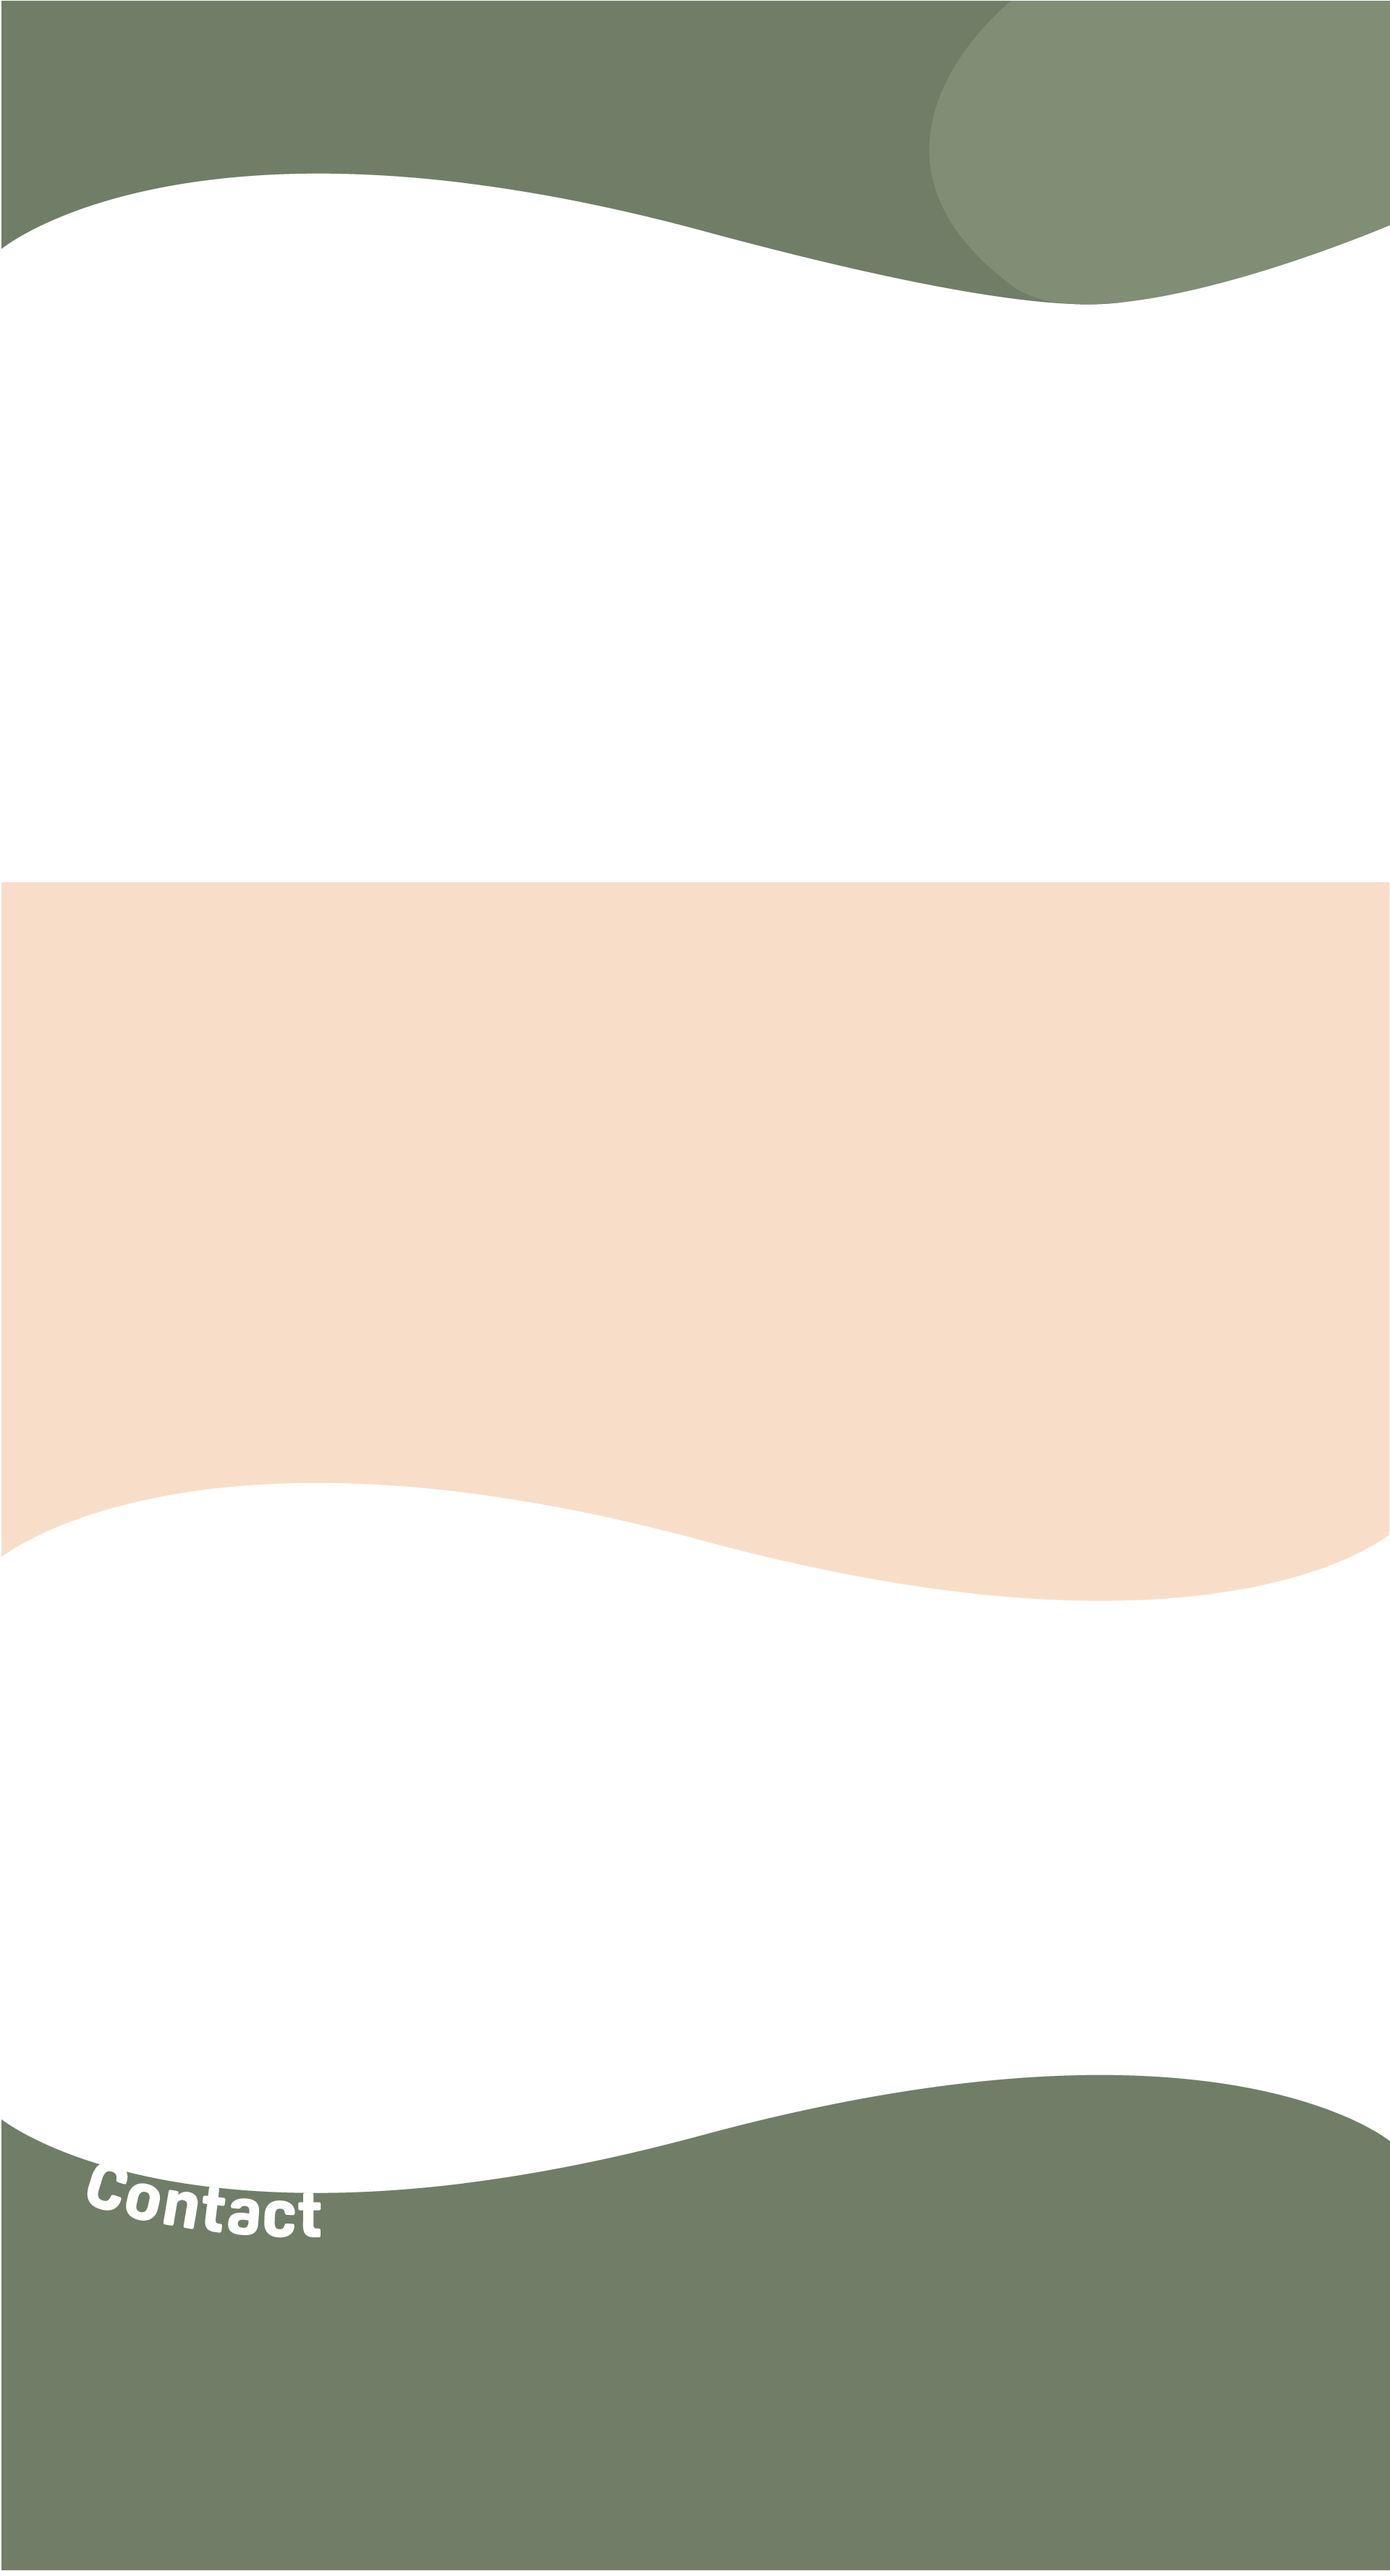
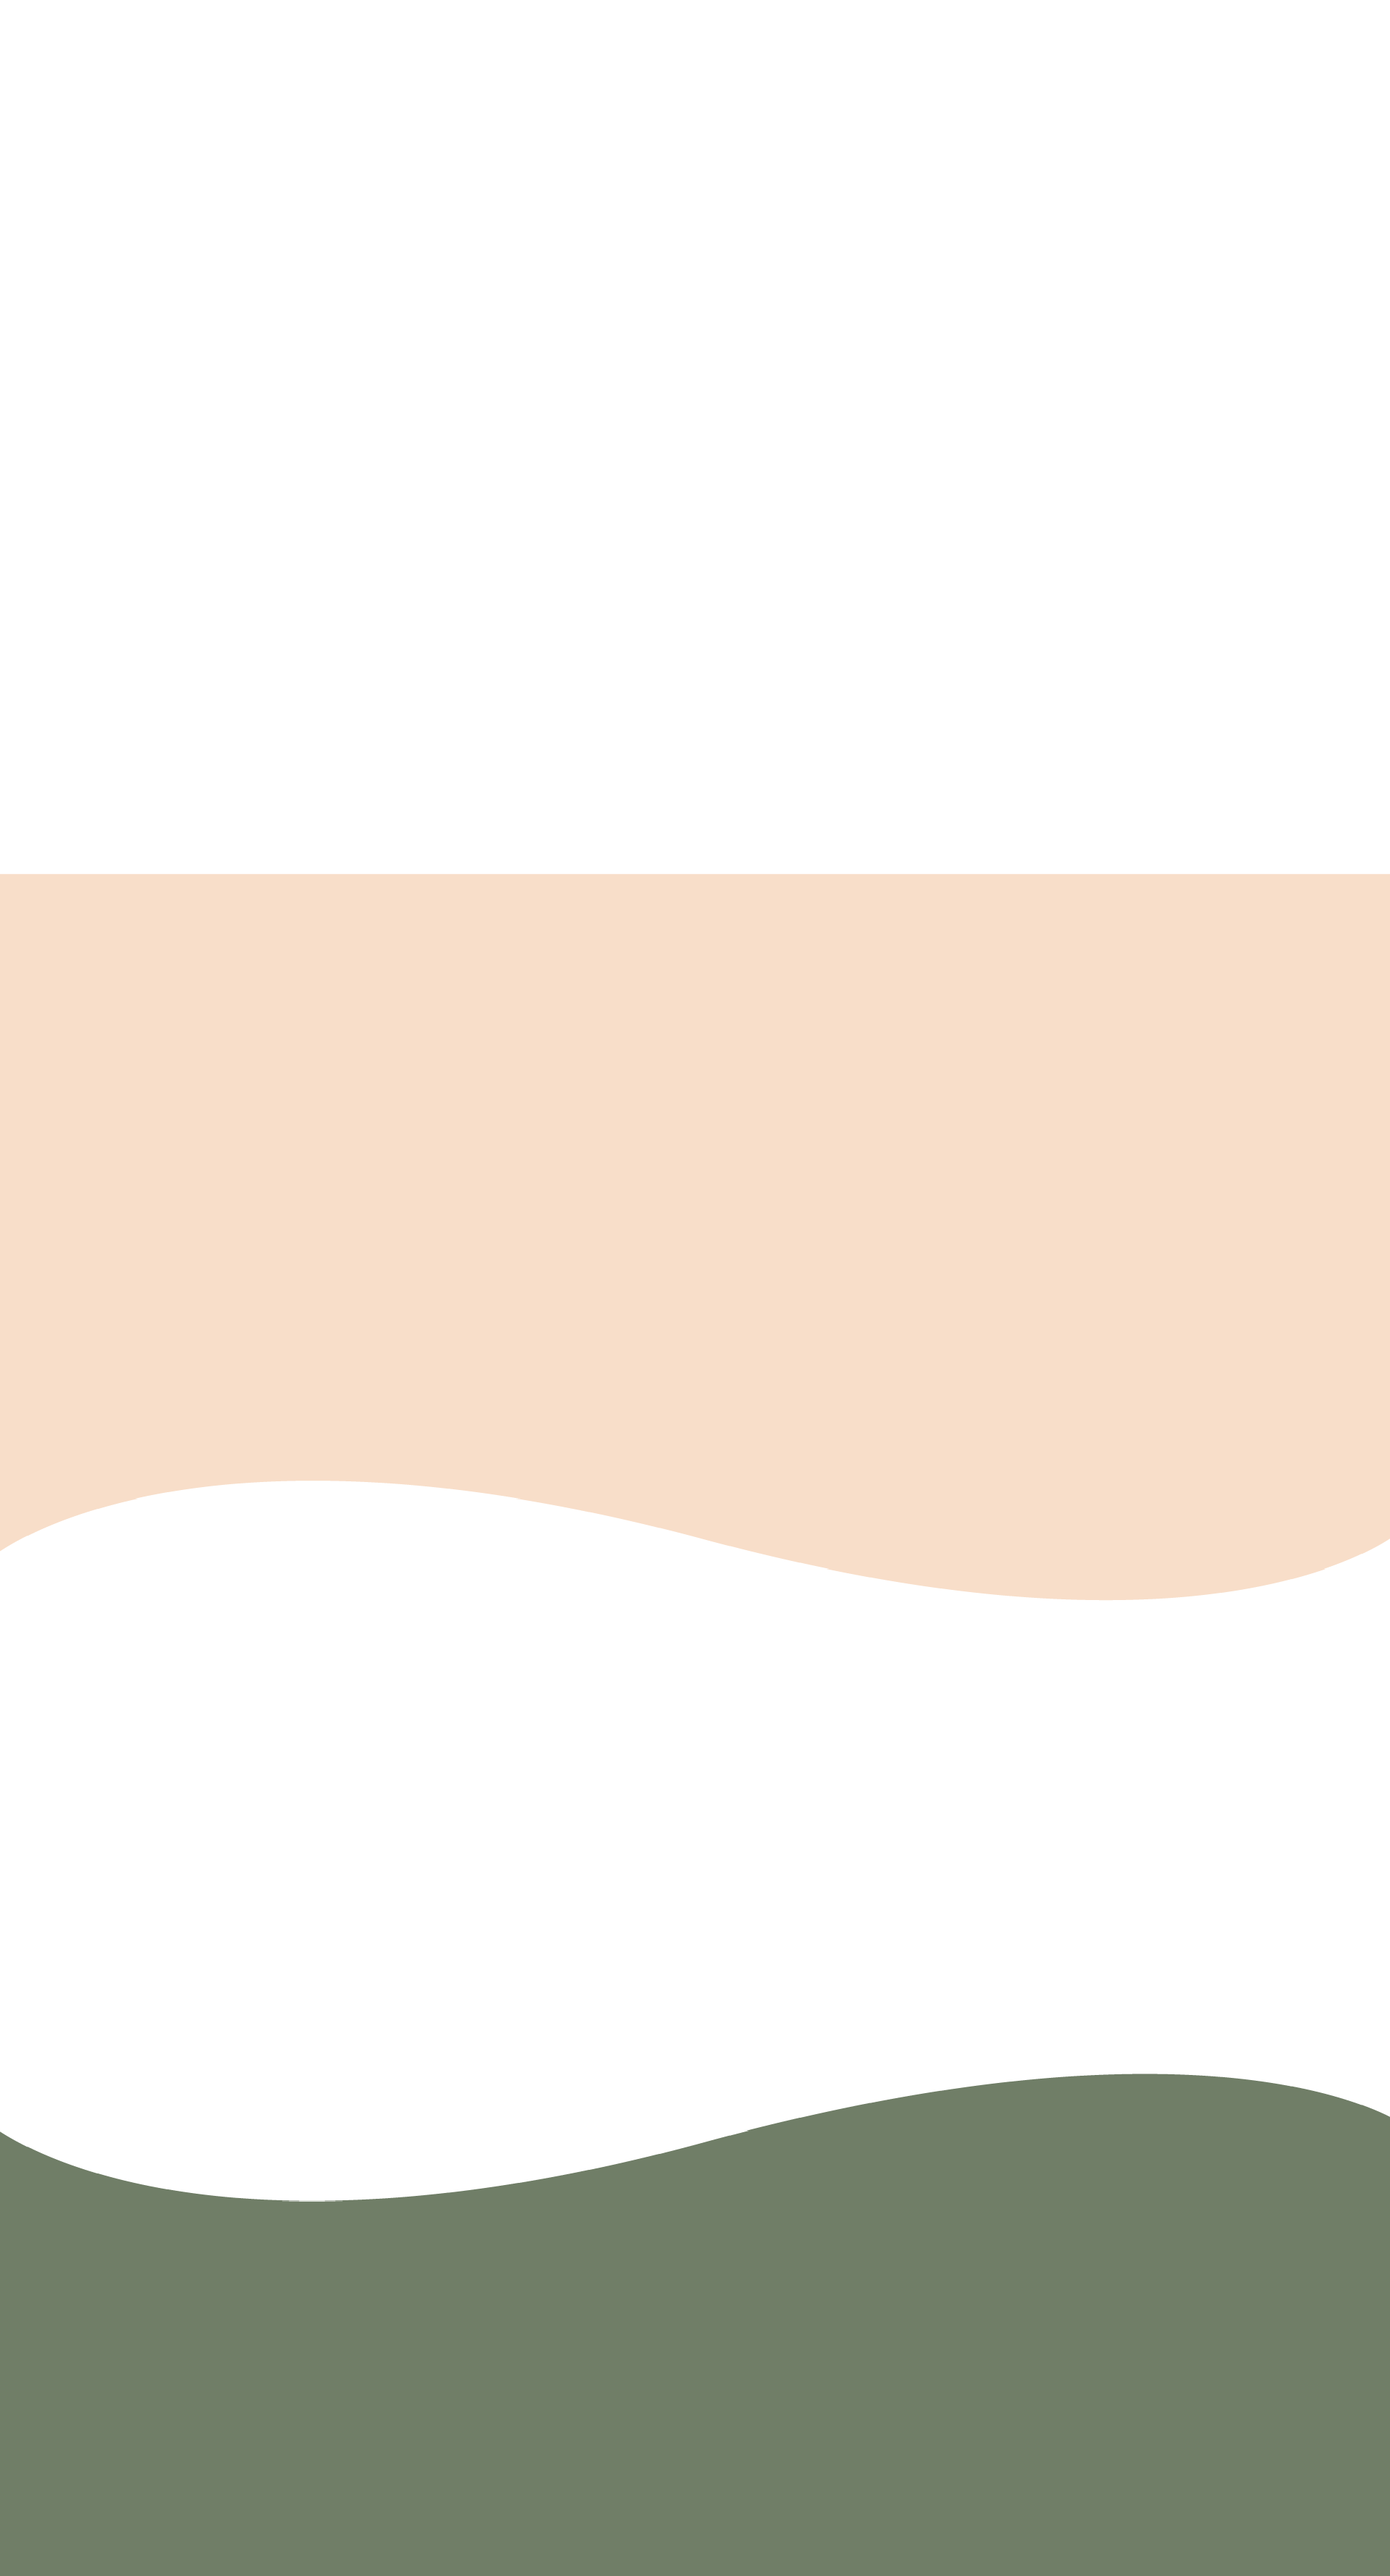
added background to home

diff --git a/Website/css/base-layout.css b/Website/css/base-layout.css
@@ -8,7 +8,7 @@ body {
 .header {
 	padding: 0px;
 	border-top-right-radius: 23px;
-	border-top-left-radius: 23px;
+	border-top-left-radius: 20px;
 	border-left: solid #3e2e14;
 	border-right: solid #3e2e14;
 	border-top: solid #3e2e14;
@@ -64,7 +64,7 @@ h1 {
 	width: 60%;
 }
 .home-div3 {
-	padding: 1% 45px 25px 13%;
+	padding: 1% 45px 15px 13%;
 	height: 20%;
 	display: flex;
 	justify-content: space-between;
@@ -99,8 +99,7 @@ h1 {
 }
 .background {
 	width: 97.75%;
-	border-top-right-radius: 22.5px;
-	border-top-left-radius: 10px;
+	border-radius: 22.5px;
 	padding-right: 0px;
 	z-index: -3;
 	position: absolute;

diff --git a/Website/website.html b/Website/website.html
@@ -12,7 +12,7 @@
 	</head>
 	<body>
 		<div class="kader">
-			<img class="background" src="images/BG19202.png" alt="" />
+			<img class="background" src="images/BG2.png" alt="" />
 			<div class="header">
 				<img class="nav-image" src="images/Navigation.png" alt="" />
 				<h1>PlantAwareness</h1>

diff --git a/Website/css/nav.css b/Website/css/nav.css
@@ -51,9 +51,9 @@ nav a {
 }
 .nav-image {
 	width: 97.75%;
-	border-radius: 27.5px;
+	border-radius: 23px;
 	padding-right: 0px;
 	z-index: -1;
 	position: absolute;
-	padding-top: 0%;
+	margin-top: -5px;
 }

diff --git a/README.md b/README.md
@@ -1,0 +1,3 @@
+# PLANT project
+
+## Curve tekst
